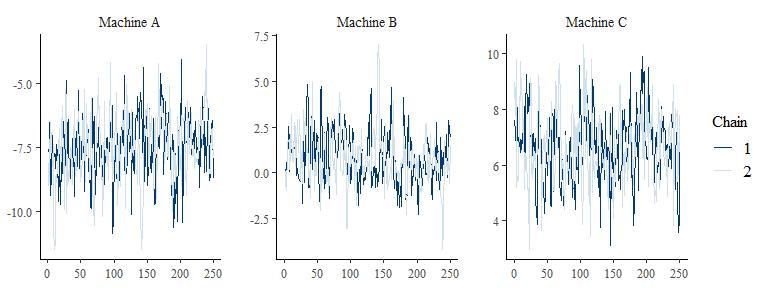
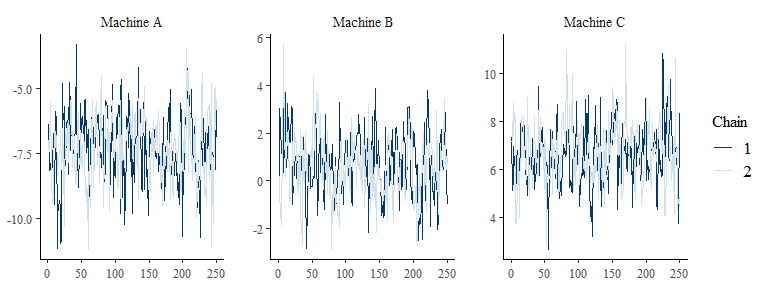
rebuilt README

diff --git a/README.md b/README.md
@@ -98,16 +98,14 @@ summary(m_machines)
 #> 
 #> Estimate Intercept:
 #>      Variable Mean MAD_SD   5%  50%  95% rhat ess_bulk ess_tail
-#> 1 (Intercept) 59.6   1.85 56.4 59.5 63.2    1      175      270
+#> 1 (Intercept) 59.3    1.9 56.3 59.5 62.2    1      159      271
 #> 
 #> 
-#> Estimates 'Machine':
-#>    Variable  Mean MAD_SD    5%    50%   95% rhat ess_bulk ess_tail
-#> 1 Machine A -7.47   1.24 -9.76 -7.415 -5.52 1.01      216      259
-#> 2 Machine B  0.79   1.28 -1.25  0.637  3.07 1.00      170      242
-#> 3 Machine C  6.68   1.18  4.62  6.636  8.94 1.00      216      220
-#> 
-#> Note: Estimates of factor-levels represent differences from Intercept.
+#> Estimates 'Machine' - difference from intercept:
+#>    Variable   Mean MAD_SD    5%    50%   95% rhat ess_bulk ess_tail
+#> 1 Machine A -7.314   1.20 -9.48 -7.285 -5.46 1.00      255      228
+#> 2 Machine B  0.646   1.25 -1.47  0.667  2.86 1.01      162      207
+#> 3 Machine C  6.668   1.21  4.57  6.693  8.71 1.01      224      267
 ```
 
 If one is not interested in the differences from the factor levels, it
@@ -130,16 +128,14 @@ summary(m_machines, diff_intercept = FALSE)
 #> 
 #> Estimate Intercept:
 #>      Variable Mean MAD_SD   5%  50%  95% rhat ess_bulk ess_tail
-#> 1 (Intercept) 59.6   1.85 56.4 59.5 63.2    1      175      270
+#> 1 (Intercept) 59.3    1.9 56.3 59.5 62.2    1      159      271
 #> 
 #> 
-#> Estimates 'Machine':
+#> Estimates 'Machine' - marginal means:
 #>    Variable Mean MAD_SD   5%  50%  95%  rhat ess_bulk ess_tail
-#> 1 Machine A 52.1   1.76 48.8 52.1 55.1 0.999      194      284
-#> 2 Machine B 60.4   2.94 55.8 60.1 65.7 1.004      169      229
-#> 3 Machine C 66.3   1.85 63.0 66.2 69.7 1.033      202      235
-#> 
-#> Note: Estimates of factor-levels represent marginal means.
+#> 1 Machine A   52   1.71 49.0 52.1 55.1 1.003      212      314
+#> 2 Machine B   60   2.97 55.6 60.2 64.1 1.003      144      191
+#> 3 Machine C   66   1.73 62.6 66.0 69.3 0.997      201      272
 ```
 
 The key to the output is the `stanova_samples()` function which takes a
@@ -153,16 +149,17 @@ the `return` argument.
 out_array <- stanova_samples(m_machines)
 str(out_array)
 #> List of 2
-#>  $ (Intercept): num [1:250, 1, 1:2] 63.8 63.9 56.2 58.3 57.7 ...
+#>  $ (Intercept): num [1:250, 1, 1:2] 57.7 59.9 60.6 61.2 59.6 ...
 #>   ..- attr(*, "dimnames")=List of 3
 #>   .. ..$ Iteration: chr [1:250] "1" "2" "3" "4" ...
 #>   .. ..$ Parameter: chr "(Intercept)"
 #>   .. ..$ Chain    : chr [1:2] "chain:1" "chain:2"
-#>  $ Machine    : num [1:250, 1:3, 1:2] -7.69 -7.46 -6.53 -9.38 -8.55 ...
+#>  $ Machine    : num [1:250, 1:3, 1:2] -6.38 -8.17 -7.86 -8.12 -7.63 ...
 #>   ..- attr(*, "dimnames")=List of 3
 #>   .. ..$ Iteration: chr [1:250] "1" "2" "3" "4" ...
 #>   .. ..$ Parameter: chr [1:3] "Machine A" "Machine B" "Machine C"
 #>   .. ..$ Chain    : chr [1:2] "chain:1" "chain:2"
+#>   ..- attr(*, "estimate")= chr "difference from intercept"
 ```
 
 One can also change which dimension of the `array` represents the chain
@@ -172,16 +169,17 @@ via the `dimension_chain` argument.
 out_array2 <- stanova_samples(m_machines, dimension_chain = 2)
 str(out_array2)
 #> List of 2
-#>  $ (Intercept): num [1:250, 1:2, 1] 63.8 63.9 56.2 58.3 57.7 ...
+#>  $ (Intercept): num [1:250, 1:2, 1] 57.7 59.9 60.6 61.2 59.6 ...
 #>   ..- attr(*, "dimnames")=List of 3
 #>   .. ..$ Iteration: chr [1:250] "1" "2" "3" "4" ...
 #>   .. ..$ Chain    : chr [1:2] "chain:1" "chain:2"
 #>   .. ..$ Parameter: chr "(Intercept)"
-#>  $ Machine    : num [1:250, 1:2, 1:3] -7.69 -7.46 -6.53 -9.38 -8.55 ...
+#>  $ Machine    : num [1:250, 1:2, 1:3] -6.38 -8.17 -7.86 -8.12 -7.63 ...
 #>   ..- attr(*, "dimnames")=List of 3
 #>   .. ..$ Iteration: chr [1:250] "1" "2" "3" "4" ...
 #>   .. ..$ Chain    : chr [1:2] "chain:1" "chain:2"
 #>   .. ..$ Parameter: chr [1:3] "Machine A" "Machine B" "Machine C"
+#>   ..- attr(*, "estimate")= chr "difference from intercept"
 ```
 
 This makes it easy to produce plots via the `bayesplot` package on the
